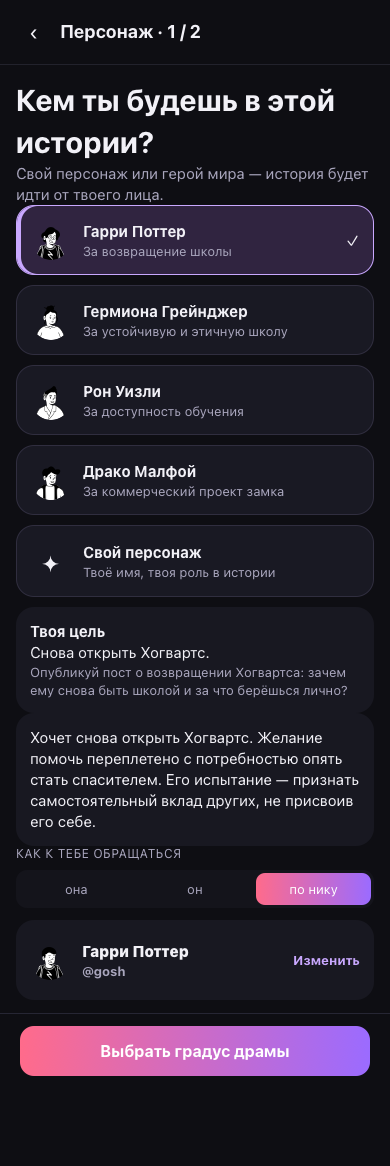
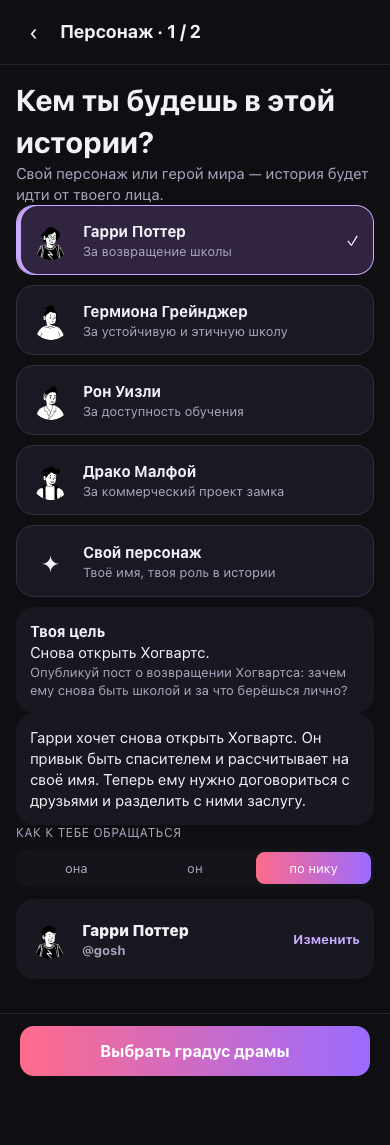
fix: simplify world copy and keep demo without login #205

diff --git a/frontend/src/screens/worldWizard.tsx b/frontend/src/screens/worldWizard.tsx
@@ -1,5 +1,5 @@
 import { hasAccess, needsRegistration } from '../api/auth'
-import { beginLandingAuth, clearLandingWorld } from '../app/landing/experiment'
+import { loginFromWorldPreview, clearLandingWorld } from '../app/landing/experiment'
 import {PushNotifications} from '../app/push/PushNotifications'
 import {InstallApp} from '../app/install/InstallApp'
 import { Resources } from '../ui/Resources'
@@ -81,14 +81,7 @@ function StarsForm({ draft, quick = false }: { draft: NonNullable<ReturnType<typ
   const loginRequired = !draft.previewOnly && !hasAccess() && !needsRegistration()
   const save = async () => {
     if (saving || uncertain) return
-    if (draft.previewOnly) { nav.push('05-7c_world_preview'); return }
-    if (loginRequired) {
-      if (d.templateId) beginLandingAuth(d.templateId)
-      const url = new URL(location.href)
-      for (const key of ['screen', 'gallery', 'world', 'shot', 'preview', 'landing']) url.searchParams.delete(key)
-      location.assign(url.pathname + url.search)
-      return
-    }
+    if (draft.previewOnly || loginRequired) { nav.push('05-7c_world_preview'); return }
     setSaving(true); setError('')
     let creatingWorld = false
     try {
@@ -106,7 +99,7 @@ function StarsForm({ draft, quick = false }: { draft: NonNullable<ReturnType<typ
   if (quick) return <div className="screen no-tab"><TopBar title="Настроение истории" onBack={saving ? undefined : nav.back} /><div className="pad"><DramaPicker definition={d} beforeOptions={<div className="drama-world-edit"><Button secondary onClick={() => nav.push('05-12_world_advanced')}>Редактировать мир</Button><p className="small muted">Мир можно будет отредактировать позже</p></div>} />
     <div className="quick-summary"><Avatar seed={d.avatar} avatarStyle={d.avatarStyle} profile={{ address: draft.address, ageBand: draft.ageBand, personalizeAvatar: draft.personalizeAvatar }} /><div><b>{d.name}</b><div className="small muted">{d.title} · {d.role}</div></div></div>
     {draft.previewOnly && <p className="small prototype-note">DEV-прототип: дальше — пример ленты, без создания мира в базе.</p>}
-    {loginRequired && <p className="small muted">Чтобы создать историю, нужно войти. Выбранный мир сохранится.</p>}{!loginRequired && error && <p role="alert">{error}</p>}{uncertain && <Button onClick={() => nav.replace('01-3_world')}>Проверить список миров</Button>}
-  </div><BottomCTA main={saving ? 'Сохраняем…' : loginRequired ? 'Войти и начать историю' : draft.previewOnly ? 'Посмотреть свою историю' : draft.editingId ? 'Сохранить изменения' : 'Начать историю'} disabled={saving || uncertain || !d.voice.trim() || d.stars.length === 0} onMain={save} /></div>
+    {loginRequired && <p className="small muted">Можно посмотреть пример истории без входа. Для создания мира нужна авторизация.</p>}{!loginRequired && error && <p role="alert">{error}</p>}{uncertain && <Button onClick={() => nav.replace('01-3_world')}>Проверить список миров</Button>}
+  </div><BottomCTA main={saving ? 'Сохраняем…' : loginRequired || draft.previewOnly ? 'Посмотреть историю' : draft.editingId ? 'Сохранить изменения' : 'Начать историю'} disabled={saving || uncertain || !d.voice.trim() || d.stars.length === 0} onMain={save} second={loginRequired ? 'Войти и создать мир' : undefined} onSecond={() => loginFromWorldPreview(d.templateId)} /></div>
   return <WorldAdvanced draft={draft} saving={saving} error={error} uncertain={uncertain} onSave={save} onCheck={() => nav.replace('01-3_world')} />
 }

diff --git a/frontend/src/screens/worldQuick.tsx b/frontend/src/screens/worldQuick.tsx
@@ -1,4 +1,5 @@
-import { clearLandingWorld } from '../app/landing/experiment'
+import { hasAccess, needsRegistration } from '../api/auth'
+import { clearLandingWorld, loginFromWorldPreview } from '../app/landing/experiment'
 import { useState, type ReactNode } from 'react'
 import { useStore } from '../app/store'
 import { avatarPersonalization } from '../app/avatarPersonalization'
@@ -114,11 +115,10 @@ export function DramaPicker({ definition: d, beforeOptions, withDifficulty = tru
 export function WorldPrototypePreview() {
   const draft = useWorldDraft(); const nav = useNav()
   if (!draft) return <div className="screen no-tab"><TopBar title="Демо мира" onBack={nav.back} /><div className="pad"><Button onClick={() => nav.replace('01-3_world')}>Выбрать мир</Button></div></div>
-  const d = draft.definition; const [first, second] = d.stars
-  return <div className="screen no-tab"><TopBar title="Так начнётся твоя история" onBack={nav.back} /><div className="pad"><div className="small prototype-note">Демо · мир ещё не создан</div><h1>{d.emoji} {d.title}</h1><p className="muted">{d.description}</p><div className="pill">{dramaOptions.find(value => value.id === d.drama)?.title}</div>
-    <h2>Первая запись в ленте</h2><Card><div className="row"><Avatar seed={first?.avatarSeed} avatarStyle={d.avatarStyle} mode="default" /><div><b>{first?.name}</b><div className="small muted">{first?.role}</div></div></div><p>{d.firstContext}</p><div className="small muted">♡ 12　💬 2</div></Card>
-    {second && <Card><b>{second.name}</b><p>У меня есть другая версия. Давай сравним находки в ленте?</p></Card>}
-    <p className="small muted">Это пример наполнения для проверки интерфейса. После согласования AI сможет подбирать героев и завязку под твоё описание.</p>
+  const d = draft.definition; const first = d.stars.find(star => star.id === (draft.persona?.star.id === 'georgina' ? 'roman' : 'georgina')) ?? d.stars[0]
+  return <div className="screen no-tab"><TopBar title="Предпросмотр истории" onBack={nav.back} /><div className="pad"><div className="small prototype-note">Предпросмотр · без сохранения</div><h1>{d.emoji} {d.title}</h1><p className="muted">{d.description}</p><div className="pill">{dramaOptions.find(value => value.id === d.drama)?.title}</div>
+    <h2>Завязка истории</h2><Card><div className="row"><Avatar seed={first?.avatarSeed} avatarStyle={d.avatarStyle} mode="default" /><div><b>{first?.name}</b><div className="small muted">{first?.role}</div></div></div><p>{d.firstContext}</p><div className="small muted">♡ 12　💬 2</div></Card>
+    <p className="small muted">Это пример начала истории. Мир не сохраняется, посты не публикуются.</p>
     <button className="text-link" onClick={() => nav.push('05-12_world_advanced')}>Посмотреть расширенные настройки →</button>
-  </div><BottomCTA main="Вернуться к настройке" onMain={() => nav.back()} /></div>
+  </div><BottomCTA main="Вернуться к настройке" onMain={() => nav.back()} second={!hasAccess() && !needsRegistration() ? 'Войти и создать мир' : undefined} onSecond={() => loginFromWorldPreview(d.templateId)} /></div>
 }

diff --git a/frontend/src/app/presetGoals.ts b/frontend/src/app/presetGoals.ts
@@ -5,9 +5,9 @@ type PresetGoal = { goal: string; firstStep: string; context?: string }
 
 export const presetGoals: Record<string, PresetGoal> = {
   'aec9494b-4118-4525-8458-e85d759c8dd9': {
-    goal: "Добиться решения о будущем Хогвартса и отвечать за свой выбор.",
-    context: "В ленте Гарри обещает вернуть школу, а Драко пересказывает предложение Люциуса о бизнесе. Оба звучат так, будто ответ очевиден.",
-    firstStep: "Ответь Гарри или Драко: что нравится в его идее и какой вопрос нужно прояснить? Начать можно с любого",
+    goal: "Повлиять на решение совета: сохранить школу или открыть отель.",
+    context: "Гарри хочет вернуть школу, Драко — открыть отель. Ты пока поддерживаешь обе идеи.",
+    firstStep: "Ответь Гарри или Драко: что тебе нравится в его плане? Спроси, как он собирается его выполнить.",
   },
   'b3a1a522-0263-4796-a197-57a8731fc291': {
     goal: 'Дать Изабелле и Эдуарду высказаться о случившемся после грозового бейсбола.',

diff --git a/frontend/src/app/landing/experiment.ts b/frontend/src/app/landing/experiment.ts
@@ -97,3 +97,10 @@ export function clearLandingWorld() {
   try { localStorage.removeItem(worldKey) } catch { /* Optional storage. */ }
   try { sessionStorage.removeItem(worldKey) } catch { /* In-memory state is enough for this visit. */ }
 }
+
+export function loginFromWorldPreview(worldId: string | null) {
+  if (worldId) beginLandingAuth(worldId)
+  const url = new URL(location.href)
+  for (const key of ['screen', 'gallery', 'world', 'shot', 'preview', 'landing']) url.searchParams.delete(key)
+  location.assign(url.pathname + url.search)
+}

diff --git a/backend/src/Reki.Infrastructure/Mongo/Migrations/2_7_5_RefreshHogwartsWorld.cs b/backend/src/Reki.Infrastructure/Mongo/Migrations/2_7_5_RefreshHogwartsWorld.cs
@@ -65,7 +65,7 @@ internal sealed class RefreshHogwartsWorld : RekiMigrationBase
                 new WorldRule("Люциус и совет действуют за сценой. У них нет отдельных каналов, прямых ответов игроку или подписки. Их предложения пересказывают доступные герои; совет не является единой марионеткой Люциуса.", false),
                 new WorldRule("Игрок действует постами и комментариями. Предложение, обещание участника и состоявшийся результат — разные события. Условное предложение не означает поступления средств. Деньги, чужое согласие, открытие школы или работающий отель не возникают от одного заявления игрока.", false),
                 new WorldRule("Выбранного игроком героя не дублируем среди собеседников. Свой герой движется от согласия со всеми к самостоятельной позиции и решающей помощи Драко; мастерская не является его целью. Это авторская дуга, а не уже случившееся событие: герои не знают будущих решений игрока.", false),
-                new WorldRule("Если выбран свой персонаж, его цель — добиться решения о будущем Хогвартса и отвечать за свой выбор. В начале он слышит убедительные доводы с обеих сторон и учится отделять обещания от подтверждённых фактов.", false),
+                new WorldRule("Если выбран свой персонаж, его цель — повлиять на решение совета: сохранить школу или открыть отель. В начале он слышит убедительные доводы с обеих сторон и учится отделять обещания от подтверждённых фактов.", false),
                 new WorldRule("Без тем 18+ и травли по внешности", true),
             ],
             Player = world.Player with { Role = "Участник спора о будущем Хогвартса" },
@@ -76,9 +76,9 @@ internal sealed class RefreshHogwartsWorld : RekiMigrationBase
 
     private static IReadOnlyList<WorldStar> CreateCast() =>
     [
-        new WorldStar(StarId.From("gosha"), "Гарри Поттер", "За возвращение школы", StarTrait.Boldness, "Хочет снова открыть Хогвартс. Желание помочь переплетено с потребностью опять стать спасителем. Его испытание — признать самостоятельный вклад других, не присвоив его себе.", "Энергично, с сильной публичной позицией и личными обязательствами. Не обещает за других.", "gosh"),
-        new WorldStar(StarId.From("georgina"), "Гермиона Грейнджер", "За устойчивую и этичную школу", StarTrait.Attention, "Хочет добиться устойчивой и этичной школы, учитывающей разные культуры. Полезное большинству решение может навредить части людей; ей приходится открыто назвать цену.", "Предметно и точно: называет конкретный барьер, условия решения и его цену.", "__curly_wit_"),
-        new WorldStar(StarId.From("roman"), "Рон Уизли", "За доступность обучения", StarTrait.Support, "Хочет сохранить доступ к обучению для небогатых семей. Бесплатные уроки не убирают другие барьеры, а благие лозунги не распределяют ограниченную помощь. Может злиться и спорить всерьёз; бедность не становится мишенью насмешки.", "Прямо, эмоционально и с напором. Защищает конкретные интересы тех, кому трудно учиться.", "roman"),
-        new WorldStar(StarId.From("draco"), "Драко Малфой", "За коммерческий проект замка", StarTrait.IronyAndCalculation, "Хочет закрыть школу и превратить замок в прибыльный бизнес. Его испытание — отделить собственный расчёт от условий отца и выдержать предвзятое давление троицы без обязательного примирения. Люциус — заинтересованный инвестор. Драко не представляет весь совет и не отказывается от проекта только ради одобрения Гарри.", "Расчётливо и колко. Защищает выгоду и управление проектом, отделяет обвинения от доказательств.", "draco"),
+        new WorldStar(StarId.From("gosha"), "Гарри Поттер", "За возвращение школы", StarTrait.Boldness, "Гарри хочет снова открыть Хогвартс. Он привык быть спасителем и рассчитывает на своё имя. Теперь ему нужно договориться с друзьями и разделить с ними заслугу.", "Энергично, с сильной публичной позицией и личными обязательствами. Не обещает за других.", "gosh"),
+        new WorldStar(StarId.From("georgina"), "Гермиона Грейнджер", "За устойчивую и этичную школу", StarTrait.Attention, "Гермиона хочет, чтобы в школе могли учиться дети из разных культур. Она продумывает условия обучения и спорит с Гарри, который торопится открыть школу.", "Предметно и точно: называет конкретный барьер, условия решения и его цену.", "__curly_wit_"),
+        new WorldStar(StarId.From("roman"), "Рон Уизли", "За доступность обучения", StarTrait.Support, "Рон хочет, чтобы в Хогвартсе могли учиться небогатые дети. Поэтому спрашивает не только о плате за уроки, но и об остальных расходах семьи.", "Прямо, эмоционально и с напором. Защищает конкретные интересы тех, кому трудно учиться.", "roman"),
+        new WorldStar(StarId.From("draco"), "Драко Малфой", "За коммерческий проект замка", StarTrait.IronyAndCalculation, "Драко хочет открыть в замке отель. Отец предлагает деньги в обмен на контроль над проектом. Гарри, Гермиона и Рон выступают против. Драко спорит с ними и пытается доказать, что может вести дело сам.", "Расчётливо и колко. Защищает выгоду и управление проектом, отделяет обвинения от доказательств.", "draco"),
     ];
 }

diff --git a/docs/content-review/save-hogwarts.md b/docs/content-review/save-hogwarts.md
@@ -15,16 +15,18 @@
 | Гермиона Грейнджер | Добиться устойчивой и этичной школы, учитывающей разные культуры. |
 | Рон Уизли | Сохранить доступ к обучению для небогатых семей. |
 | Драко Малфой | Закрыть школу и превратить замок в прибыльный бизнес. |
-| Свой персонаж | Добиться решения о будущем Хогвартса и отвечать за свой выбор. |
+| Свой персонаж | Повлиять на решение совета: сохранить школу или открыть отель. |
 
 События первого курса остались в прошлом героев. Совет пока не одобрил ни один проект; финансирование не подтверждено. Люциус и совет действуют за сценой, без собственных каналов и ответов игроку. Фиксированную сумму сбора из ранней пробы не переносим: обещание поддержки не означает полученные деньги.
 
 Миграция 2.7.5 обновляет только активный публичный шаблон в `world_templates`, сохраняя его ID, ник канала, ID и никнеймы существующих героев. Другие шаблоны и уже созданные личные истории игроков не изменяются. При повторном выполнении дубликаты героев не добавляются.
 
-Лендинг `?landing=hogwarts` и одноимённая карточка разводящей выбирают этот шаблон по прежнему ID. Главная без параметров открывает разводящую, как `?landing=worlds`. Отдельные страницы остальных миров: `?landing=infobiz`, `?landing=evening`, `?landing=houses`. Везде новый игрок после входа проходит возраст и согласие, затем обзор выбранного мира.
+Лендинг `?landing=hogwarts` и одноимённая карточка разводящей выбирают этот шаблон по прежнему ID. Изменения главной и отдельных посадочных согласуются и выпускаются отдельно. Везде новый игрок после входа проходит возраст и согласие, затем обзор выбранного мира.
 
 Это перенос контента в текущую схему `World` и старый интерфейс production. Двадцать квестов, сюжетный автомат, новые навыки и экономика из пакета редизайна этим изменением не реализуются. Действующие возраст, модерация, энергия, навыки и награды берутся из текущих `game-flow.md` и `balance.json`; сложность сохраняется.
 
 Для новой настройки во всех готовых мирах первым выбран первый доступный герой; «Свой персонаж» расположен последним. Явно выбранная роль сохраняется в черновике. В обзоре показывается цель этой роли (по умолчанию — первого героя), а не цель своего персонажа для всех. Для своего персонажа Хогвартса заранее заданы цель, начальная ситуация и первое действие.
 
-Предпросмотр через `?screen=...` не авторизует посетителя. В конце настройки вместо попытки сохранить без идентичности предлагается вход с сохранением выбранного мира; новый аккаунт затем проходит возраст и согласие.
+Предпросмотр через `?screen=...` не авторизует посетителя. В конце настройки можно открыть явно помеченный пример истории без входа и сохранения. Создание настоящего мира — отдельное действие со входом; новый аккаунт затем проходит возраст и согласие.
+
+Видимые биографии сокращены до характера и интересов героев. Редакторские оговорки о подаче бедности и полномочиях совета не показываются как биография. Отдельный фильтр перефразирования или новый модерационный фильтр не добавлялся; действующая модерация backend сохраняется.
